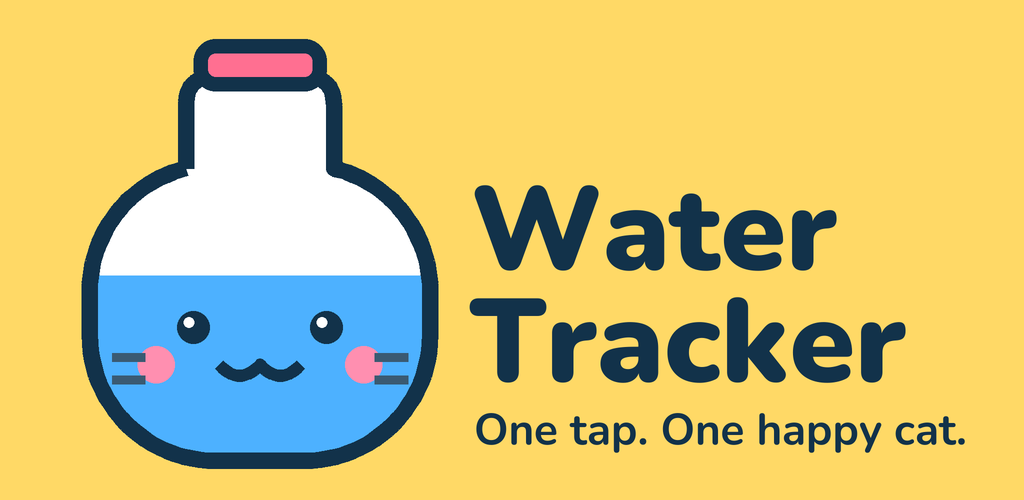
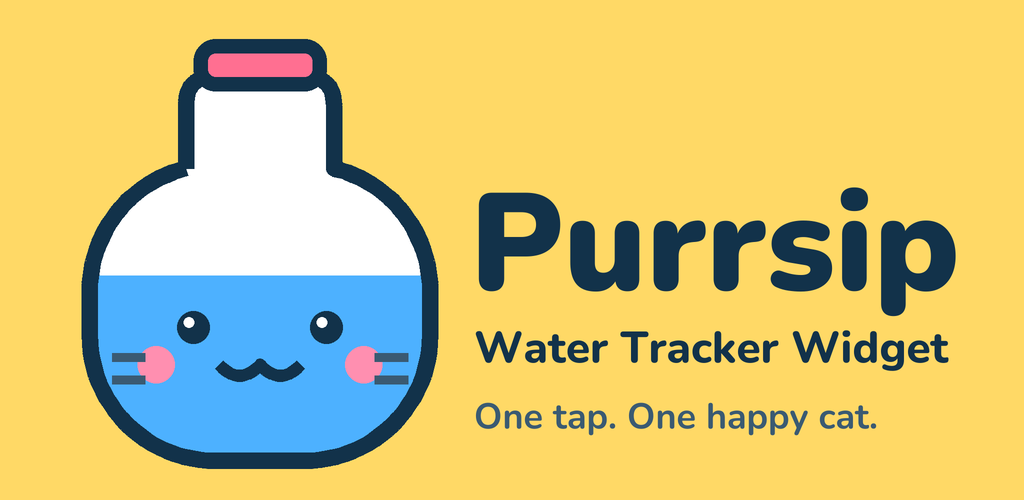
Rename app to Purrsip (Play title: Purrsip: Water Tracker Widget); update listing, docs and feature graphic

Changed region(s): [[0.4375, 0.36, 0.9375, 0.78], [0.4375, 0.81, 0.9375, 0.9]]

diff --git a/v1/WaterTracker/app/src/main/java/com/developerjabberai/watertracker/ui/ConfigScreen.kt b/v1/WaterTracker/app/src/main/java/com/developerjabberai/watertracker/ui/ConfigScreen.kt
@@ -74,7 +74,7 @@ fun ConfigScreen() {
             .padding(20.dp),
         verticalArrangement = Arrangement.spacedBy(16.dp),
     ) {
-        Text("Water Tracker", style = MaterialTheme.typography.headlineMedium, fontWeight = FontWeight.Bold, color = Ink)
+        Text("Purrsip", style = MaterialTheme.typography.headlineMedium, fontWeight = FontWeight.Bold, color = Ink)
         Text("The widget is the app. Set it up here, then tap it on your home screen.", color = Ink.copy(alpha = 0.7f))
 
         Section("Home screen widget") {
@@ -86,7 +86,7 @@ fun ConfigScreen() {
                     colors = ButtonDefaults.buttonColors(containerColor = Blue),
                 ) { Text("Add widget to home screen", fontWeight = FontWeight.Bold) }
             } else {
-                Hint("Long-press an empty spot on your home screen, tap Widgets, then drag out Water Tracker.")
+                Hint("Long-press an empty spot on your home screen, tap Widgets, then drag out Purrsip.")
             }
         }
 

diff --git a/v1/WaterTracker/app/src/main/java/com/developerjabberai/watertracker/ui/WelcomeScreen.kt b/v1/WaterTracker/app/src/main/java/com/developerjabberai/watertracker/ui/WelcomeScreen.kt
@@ -69,7 +69,7 @@ fun WelcomeScreen(onDone: () -> Unit) {
     ) {
         Image(preview, contentDescription = "Widget preview", modifier = Modifier.size(220.dp))
         Text(
-            "Water Tracker",
+            "Purrsip",
             style = MaterialTheme.typography.headlineMedium,
             fontWeight = FontWeight.Bold,
             color = Ink,
@@ -97,7 +97,7 @@ fun WelcomeScreen(onDone: () -> Unit) {
             )
         } else {
             Text(
-                "Long-press an empty spot on your home screen, tap Widgets, then drag out Water Tracker.",
+                "Long-press an empty spot on your home screen, tap Widgets, then drag out Purrsip.",
                 color = Ink,
                 textAlign = TextAlign.Center,
             )

diff --git a/v1/WaterTracker/app/src/main/java/com/developerjabberai/watertracker/service/UnlockService.kt b/v1/WaterTracker/app/src/main/java/com/developerjabberai/watertracker/service/UnlockService.kt
@@ -42,7 +42,7 @@ class UnlockService : Service() {
         val open = PendingIntent.getActivity(this, 0, Intent(this, MainActivity::class.java), PendingIntent.FLAG_IMMUTABLE)
         val notification = Notification.Builder(this, CHANNEL)
             .setSmallIcon(R.drawable.ic_stat_water)
-            .setContentTitle("Water Tracker")
+            .setContentTitle("Purrsip")
             .setContentText("Watching your pace")
             .setContentIntent(open)
             .setOngoing(true)

diff --git a/v1/store/listing.md b/v1/store/listing.md
@@ -1,10 +1,10 @@
 # Play Store listing (drafts)
 
-**App name (30):** Water Tracker
-**Short description (80):** Log water with one tap from your home screen. A little cat cheers you on.
+**App name (30):** Purrsip: Water Tracker Widget
+**Short description (80):** Water tracker widget: log water in one tap. A little cat cheers you on.
 
 **Full description (4000):**
-Water Tracker is a home-screen widget, and the widget is the whole app.
+Purrsip is a water tracker widget for your home screen, and the widget is the whole app.
 
 Tap it to log water. A sticker-style bottle fills up with a splash, then turns around to show a little cat that reacts to how you're doing.
 
@@ -20,8 +20,14 @@ Add the widget from the app in one tap, then set your goal and how much a tap lo
 
 Note: to notice when you unlock your phone, the widget uses a small background service with a quiet, low-priority notification.
 
-Water Tracker is not a medical app and gives no medical advice.
+Purrsip is not a medical app and gives no medical advice.
 
 **Category:** Health & Fitness
-**Tags:** water, hydration, widget, habit tracker
+**Tags:** water tracker, hydration, widget, drink water reminder, habit tracker
+
+**Localised titles (set per language in Play Console, keep "Purrsip" identical):**
+- de: Purrsip: Wasser Tracker Widget
+- fr: Purrsip: Rappel Eau Widget
+- es: Purrsip: Recordatorio de Agua
+- it: Purrsip: Promemoria Acqua
 **Contact email:** <your-support-email>

diff --git a/v1/RELEASE.md b/v1/RELEASE.md
@@ -1,4 +1,4 @@
-# Releasing Water Tracker to Google Play
+# Releasing Purrsip to Google Play
 
 App ID (permanent once uploaded): `com.developerjabberai.watertracker`
 
@@ -30,7 +30,7 @@ export JAVA_HOME="/Applications/Android Studio.app/Contents/jbr/Contents/Home"
 Upload `app/build/outputs/bundle/release/app-release.aab`. Bump `versionCode` in `app/build.gradle.kts` for every new upload.
 
 ## Play Console checklist
-1. Create app: name "Water Tracker", default language, App (not game), Free.
+1. Create app: title "Purrsip: Water Tracker Widget" (home-screen label "Purrsip"), default language, App (not game), Free.
 2. **Store listing:** text in `v1/store/listing.md`; assets in `v1/store/` (icon 512x512, feature graphic 1024x500, phone screenshots).
 3. **Privacy policy URL:** host `v1/store/privacy-policy.md` (for example GitHub Pages) and paste the link.
 4. **App content:** data safety (no data collected or shared; everything stays on the device), content rating questionnaire, target audience (13+ or all ages, not aimed at children), ads (none), health apps declaration (see note below).

diff --git a/v1/store/privacy-policy.md b/v1/store/privacy-policy.md
@@ -1,8 +1,8 @@
-# Water Tracker Privacy Policy
+# Purrsip Privacy Policy
 
 Last updated: 21 September 2026
 
-Water Tracker is a home-screen widget that helps you log the water you drink.
+Purrsip is a home-screen widget that helps you log the water you drink.
 
 **Data we collect:** none. The amount of water you log, your daily goal and your settings are stored only on your device. We do not collect, transmit, sell or share any personal data, and the app has no accounts, analytics, ads or third-party SDKs.
 
@@ -12,7 +12,7 @@ Water Tracker is a home-screen widget that helps you log the water you drink.
 
 **Deleting your data:** uninstalling the app removes everything it stored.
 
-**Health:** Water Tracker is not a medical app and gives no medical advice. Talk to a healthcare professional about how much water is right for you.
+**Health:** Purrsip is not a medical app and gives no medical advice. Talk to a healthcare professional about how much water is right for you.
 
 **Contact:** <your-support-email>
 

diff --git a/v1/SPEC.md b/v1/SPEC.md
@@ -1,4 +1,4 @@
-# Water Tracker: v1 Spec
+# Purrsip (Play title: "Purrsip: Water Tracker Widget"): v1 Spec
 
 ## Platform
 - Android only, minimum Android 12 (API 31)
